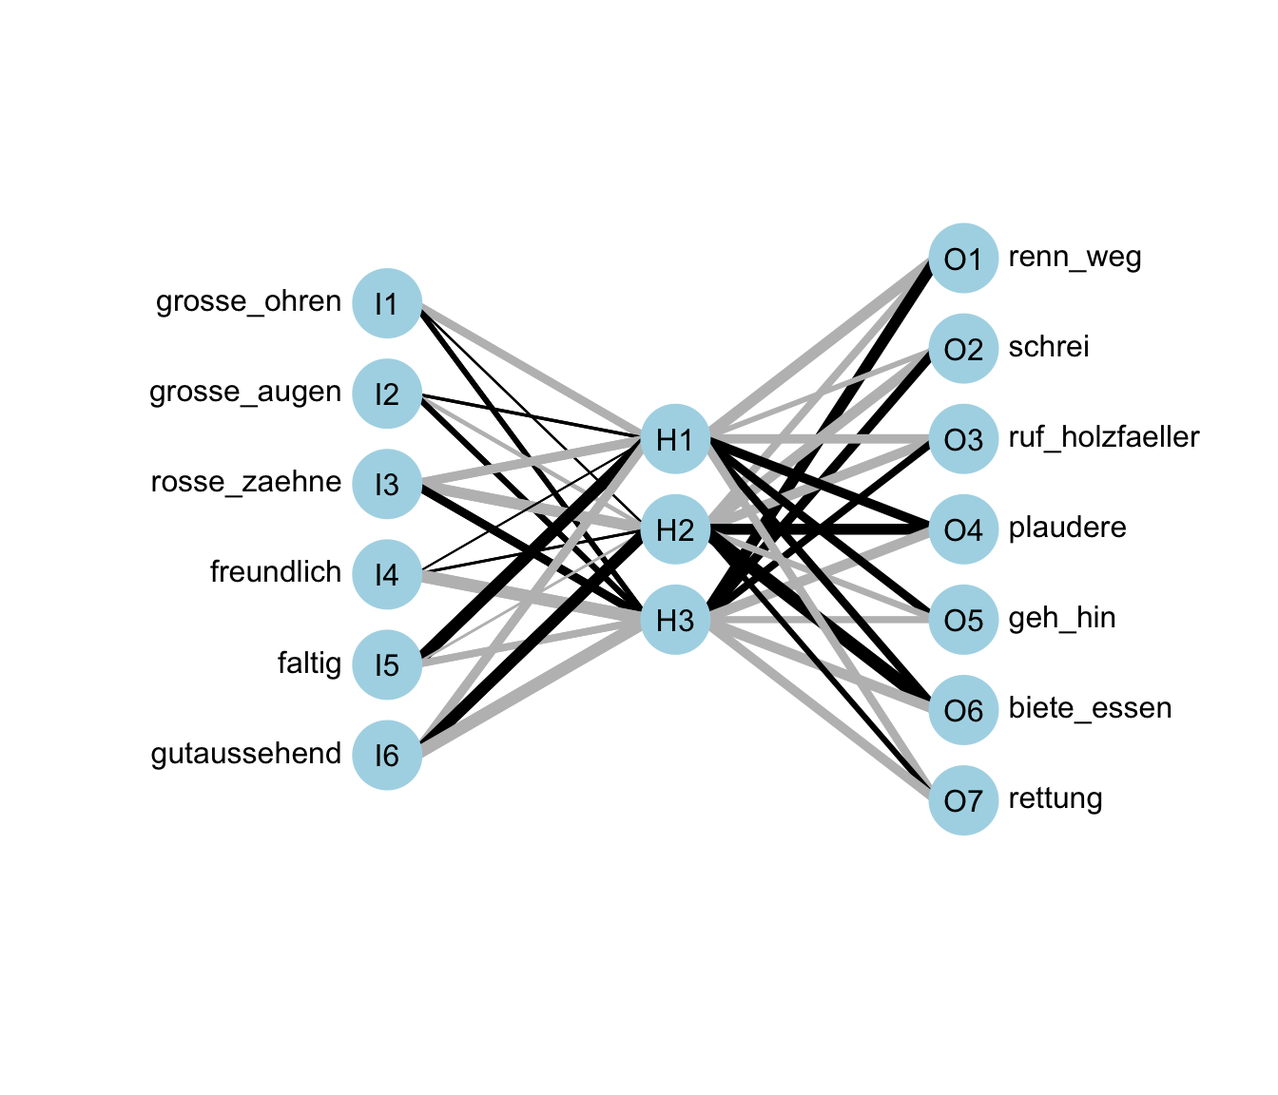
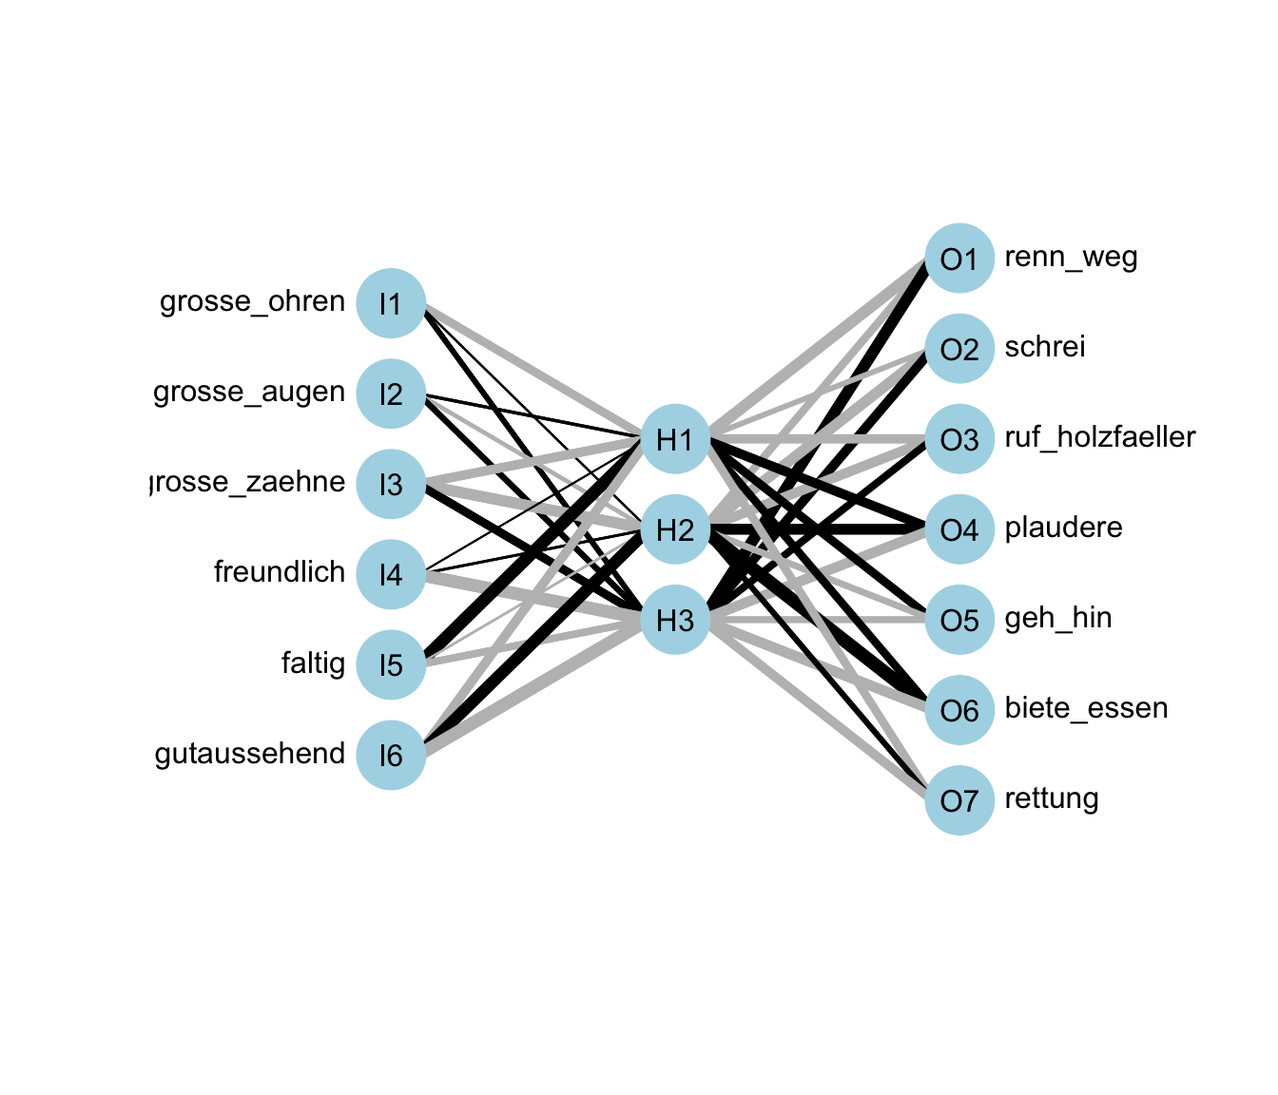
added text

Changed region(s): [[0.0938, 0.25, 0.4688, 0.7188], [0.5625, 0.2188, 0.9375, 0.75], [0.6875, 0.4688, 0.875, 0.5]]

diff --git a/docs/classification-neural-networks.html b/docs/classification-neural-networks.html
@@ -564,12 +564,13 @@ div.csl-indent {
   <ul>
 <li><a href="#genutzte-r-pakete" id="toc-genutzte-r-pakete" class="nav-link active" data-scroll-target="#genutzte-r-pakete"> <span class="header-section-number">56.1</span> Genutzte R Pakete</a></li>
   <li><a href="#neuronale-netzwerke-theoretisch" id="toc-neuronale-netzwerke-theoretisch" class="nav-link" data-scroll-target="#neuronale-netzwerke-theoretisch"> <span class="header-section-number">56.2</span> Neuronale Netzwerke theoretisch</a></li>
-  <li><a href="#rotk%C3%A4ppchen-als-neurales-netz" id="toc-rotkäppchen-als-neurales-netz" class="nav-link" data-scroll-target="#rotk%C3%A4ppchen-als-neurales-netz"> <span class="header-section-number">56.3</span> Rotkäppchen als neurales Netz</a></li>
-  <li><a href="#daten" id="toc-daten" class="nav-link" data-scroll-target="#daten"> <span class="header-section-number">56.4</span> Daten</a></li>
-  <li><a href="#neuronale-netze-mit-neuralnet" id="toc-neuronale-netze-mit-neuralnet" class="nav-link" data-scroll-target="#neuronale-netze-mit-neuralnet"> <span class="header-section-number">56.5</span> Neuronale Netze mit <code>neuralnet</code></a></li>
-  <li><a href="#neuronale-netze-mit-nnet" id="toc-neuronale-netze-mit-nnet" class="nav-link" data-scroll-target="#neuronale-netze-mit-nnet"> <span class="header-section-number">56.6</span> Neuronale Netze mit <code>nnet</code></a></li>
-  <li><a href="#neuronale-netze-mit-keras-tensorflow" id="toc-neuronale-netze-mit-keras-tensorflow" class="nav-link" data-scroll-target="#neuronale-netze-mit-keras-tensorflow"> <span class="header-section-number">56.7</span> Neuronale Netze mit Keras / Tensorflow</a></li>
-  <li><a href="#tuning" id="toc-tuning" class="nav-link" data-scroll-target="#tuning"> <span class="header-section-number">56.8</span> Tuning</a></li>
+  <li><a href="#neuronales-netz-anschaulicher" id="toc-neuronales-netz-anschaulicher" class="nav-link" data-scroll-target="#neuronales-netz-anschaulicher"> <span class="header-section-number">56.3</span> Neuronales Netz anschaulicher</a></li>
+  <li><a href="#neuronales-netz-mathematischer" id="toc-neuronales-netz-mathematischer" class="nav-link" data-scroll-target="#neuronales-netz-mathematischer"> <span class="header-section-number">56.4</span> Neuronales Netz mathematischer</a></li>
+  <li><a href="#daten" id="toc-daten" class="nav-link" data-scroll-target="#daten"> <span class="header-section-number">56.5</span> Daten</a></li>
+  <li><a href="#neuronale-netze-mit-neuralnet" id="toc-neuronale-netze-mit-neuralnet" class="nav-link" data-scroll-target="#neuronale-netze-mit-neuralnet"> <span class="header-section-number">56.6</span> Neuronale Netze mit <code>neuralnet</code></a></li>
+  <li><a href="#neuronale-netze-mit-nnet" id="toc-neuronale-netze-mit-nnet" class="nav-link" data-scroll-target="#neuronale-netze-mit-nnet"> <span class="header-section-number">56.7</span> Neuronale Netze mit <code>nnet</code></a></li>
+  <li><a href="#neuronale-netze-mit-keras-tensorflow" id="toc-neuronale-netze-mit-keras-tensorflow" class="nav-link" data-scroll-target="#neuronale-netze-mit-keras-tensorflow"> <span class="header-section-number">56.8</span> Neuronale Netze mit Keras / Tensorflow</a></li>
+  <li><a href="#tuning" id="toc-tuning" class="nav-link" data-scroll-target="#tuning"> <span class="header-section-number">56.9</span> Tuning</a></li>
   <li><a href="#referenzen" id="toc-referenzen" class="nav-link" data-scroll-target="#referenzen">Referenzen</a></li>
   </ul></nav>
     </div>
@@ -590,7 +591,7 @@ div.csl-indent {
 </header><div class="cell">
 
 </div>
-<p><em>Version vom December 12, 2022 um 08:32:41</em></p>
+<p><em>Version vom December 12, 2022 um 08:52:40</em></p>
 <div class="quarto-figure quarto-figure-center">
 <figure class="figure"><p><img src="images/caution.png" class="img-fluid figure-img" style="width:50.0%"></p>
 </figure>
@@ -692,11 +693,12 @@ div.csl-indent {
 <p><a href="https://stackoverflow.com/questions/2480650/what-is-the-role-of-the-bias-in-neural-networks">What is the role of the bias in neural networks?</a></p>
 </div></div><p>Wenn ein neuronales Netz auf dem Trainingssatz trainiert wird, wird es mit einer Reihe von Gewichten initialisiert. Diese Gewichte werden dann während der Trainingsperiode optimiert und die optimalen Gewichte werden erzeugt. Das ist ein wichtiger Punkt. Wir erzeugen zufällig die Gewichte am Anfang und lassen uns dann die Gewichte mehr oder minder zufällig weiteroptimieren. Sonst würden ja bei jedem Knoten die gleichen Zahlen rauskommen. Wir optimieren aber nicht nur einmal sondern meistens mehrfach. Das heißt wir lassen das neuronale Netzwerk mehrfach wachsen und optimieren bei jedem Wachstum die Gewicte so, dass der Fehler geringer wird.</p>
 <p>Die Epoche (eng. <em>epoch</em>) ist einer der Eingabeparameter des Algorithmus. Stelle dir die Epoche als eine Schleife vor. Die Schleife bestimmt, wie oft ein Lernalgorithmus die Gewichte aktualisiert. Wenn der Wert der Epoche 1 ist, bedeutet dies, dass das neuronale Netz einmal läuft um die Gewichte zu aktualisieren. Wenn die Epoche einen Wert von 5 hat, wird das neuronale Netzwerk fünfmal aktualisiert. Hier ist der Unterschied zu den Entscheidungsbäumen auffällig. Entscheidungsbäume werden in einem Random Forest gemittelt. Die Epochen eines neuronalen Netzwerkes hängen aber miteinander zusammen.</p>
+<div class="page-columns page-full"><p></p><div class="no-row-height column-margin column-container"><span class="aside">Ein neuronales Netz ist eine korrigierende Rückkopplungsschleife, die Gewichte belohnt, die seine korrekten Vermutungen unterstützen, und Gewichte bestraft, die es zu Fehlern verleiten.</span></div></div>
 <p>Damit wir wissen, ob unser Netzwerk über die Epochen besser wird, brauchen wir eine Verlustfunktion (eng. <em>loss function</em>). Die Verlustfunktion wird auch als Kostenfunktion (eng. <em>cost function</em>) bezeichnet. Sie errechnet den Fehler. Um genau zu sein, ist die Kostenfunktion der Durchschnitt der Verlustfunktionen. Dies ist die Funktion, die der Optimierungsalgorithmus zu minimieren versucht. Es gibt eine große Anzahl von Verlustfunktionen, wie den mittleren quadratischen Fehler oder die binäre Kreuzentropie.</p>
 <p>Die Verlustfunktion sagt dem neuronalen Netz im Wesentlichen, welche Maßnahmen es ergreifen muss, um die Accuracy zu verbessern. Diese Information wird dann verwendet, um genaueren Gewichte zu erzeugen. Danach kann dann das neuronale Netz kann die Daten erneut weiterverarbeiten.</p>
 <p>Am Rande möchte ich noch die Begriffe Forward Propagation und Back Propagation erwähnen. Beide Begriffe beschreiben, wie das Lernen innerhalb eines neuronalen Netzwerk abläuft. Klassisch ist die Forward Propagation. Dabei reicht ein Knoten die Informationen an den nächsten Knoten weiter. Das Lernen erfolgt <em>vorwärts</em>. Die andere Möglichkeit ist, das Netzwerk wachsen zu lassen und dann <em>rückwärts</em> die Gewichte der Knoten zu verbessern. Wir haben dann eine Back Propagation vorliegen.</p>
-</section><section id="rotkäppchen-als-neurales-netz" class="level2 page-columns page-full" data-number="56.3"><h2 data-number="56.3" class="anchored" data-anchor-id="rotkäppchen-als-neurales-netz">
-<span class="header-section-number">56.3</span> Rotkäppchen als neurales Netz</h2>
+</section><section id="neuronales-netz-anschaulicher" class="level2" data-number="56.3"><h2 data-number="56.3" class="anchored" data-anchor-id="neuronales-netz-anschaulicher">
+<span class="header-section-number">56.3</span> Neuronales Netz anschaulicher</h2>
 <p>In unserem folgenden Beispiel ist Rotkäppchen das neuronale Netz. Rotkäppchen hat folgende Informationen zu drei möglichen Outcomes vorliegen. Rotkäppchen weiß also, dass es im Wald oder im Haus drei Personen treffen kann. Entweder trifft sie die Großmutter, den großen, bösen Wolf oder den Holzfäller. Gott sei Dank kennt Rotkäppchen die Eigenschaften der drei Charaktere und kann daran sich folgende Matrix aufbauen. Wir lesen die Tabelle wie folgt, wir haben die Spalte <code>grosse_ohren</code> und wir haben drei Werte mit der Spalte assoziiert. Wir wissen aber nicht welche Zeile welcher Charakter ist. Wir wollen die Zuordnung einmal mit dem neuronalen Netzwerk durchführen.</p>
 <div class="cell">
 <div class="sourceCode" id="cb2"><pre class="downlit sourceCode r code-with-copy"><code class="sourceCode R"><span><span class="va">little_red_tbl</span> <span class="op">&lt;-</span> <span class="fu">tibble</span><span class="op">(</span>grosse_ohren <span class="op">=</span> <span class="fu"><a href="https://rdrr.io/r/base/c.html">c</a></span><span class="op">(</span><span class="fl">1</span>, <span class="fl">0</span>, <span class="fl">1</span><span class="op">)</span>, </span>
@@ -823,8 +825,9 @@ div.csl-indent {
 <span>                           exclude <span class="op">=</span> <span class="fu"><a href="https://rdrr.io/r/base/c.html">c</a></span><span class="op">(</span><span class="fl">1</span>, <span class="fl">8</span>, <span class="fl">15</span>, <span class="fl">22</span>, <span class="fl">26</span>, <span class="fl">30</span>, <span class="fl">34</span>, <span class="fl">38</span>, <span class="fl">42</span>, <span class="fl">46</span><span class="op">)</span>, </span>
 <span>                           lifesign <span class="op">=</span> <span class="st">"none"</span>, linear.output <span class="op">=</span> <span class="cn">FALSE</span><span class="op">)</span></span></code><button title="In die Zwischenablage kopieren" class="code-copy-button"><i class="bi"></i></button></pre></div>
 </div>
+<p>In <a href="#fig-class-nn-01">Abbildung&nbsp;<span>56.3</span></a> sehen wir das neuronale Netzwerk einmal abgebildet. Da wir uns so ein simples Beispiel ausgedacht haben, können wir das Beispiel hier auch einmal visualisieren. Wir sehen hier nochmal auf der linken Seite das Input Layer und auf der rechten Seite das Output Layer. Die schwarzen, dicken Linien stellen die bedeutenden Gewichte dar. Wir sehen also, dass <code>grosse_ohren</code>, <code>grosse_augen</code> und <code>grosse_zaehne</code> mit dem Hidden Layer H3 verbunden sind. Von dem Hidden Layer H3 gehen dann die Linien zu <code>renn_weg</code>, <code>schrei</code> und <code>ruf_holzfaeller</code>. Wir sehen daran, dass das neuronale Netzwerk in H3 den großen, bösen Wolf erkannt hat. Da wir jetzt sehen, dass H1 hauptsächlich <code>faltig</code> ist, können wir hier auf die Repräsentation der Großmutter schließen. Ebenso ist H2 <code>gutaussehend</code>, so dass wir hierauf die Repräsenrtation des Holzfällers schließen können. Die Zuordnungen des Output Layers passen dementsprechend dann auch.</p>
 <div class="cell" data-layout-align="center">
-<div class="sourceCode" id="cb4"><pre class="downlit sourceCode r code-with-copy"><code class="sourceCode R"><span><span class="fu">plotnet</span><span class="op">(</span><span class="va">neuralnetwork</span>, bias <span class="op">=</span> <span class="cn">FALSE</span>, pad_x <span class="op">=</span> <span class="fl">0.74</span><span class="op">)</span></span></code><button title="In die Zwischenablage kopieren" class="code-copy-button"><i class="bi"></i></button></pre></div>
+<div class="sourceCode" id="cb4"><pre class="downlit sourceCode r code-with-copy"><code class="sourceCode R"><span><span class="fu">plotnet</span><span class="op">(</span><span class="va">neuralnetwork</span>, bias <span class="op">=</span> <span class="cn">FALSE</span>, pad_x <span class="op">=</span> <span class="fl">0.73</span><span class="op">)</span></span></code><button title="In die Zwischenablage kopieren" class="code-copy-button"><i class="bi"></i></button></pre></div>
 <div class="cell-output-display">
 <div id="fig-class-nn-01" class="quarto-figure quarto-figure-center anchored">
 <figure class="figure"><p><img src="classification-neural-networks_files/figure-html/fig-class-nn-01-1.png" class="img-fluid figure-img" width="672"></p>
@@ -833,7 +836,37 @@ div.csl-indent {
 </div>
 </div>
 </div>
-<p>Das folgende etwas mathematische Beispiel ist von <span class="citation" data-cites="kubat2017introduction">Kubat (<a href="#ref-kubat2017introduction" role="doc-biblioref">2017</a>)</span>, pp.&nbsp;65-73, entnommen. Ich habe das Beispiel dann für R adaptiert, so dass wir hier auch R Code zum ausprobieren haben.</p>
+</section><section id="neuronales-netz-mathematischer" class="level2 page-columns page-full" data-number="56.4"><h2 data-number="56.4" class="anchored" data-anchor-id="neuronales-netz-mathematischer">
+<span class="header-section-number">56.4</span> Neuronales Netz mathematischer</h2>
+<p>Das folgende etwas mathematische Beispiel ist von <span class="citation" data-cites="kubat2017introduction">Kubat (<a href="#ref-kubat2017introduction" role="doc-biblioref">2017</a>)</span>, pp.&nbsp;65-73, entnommen. Ich habe das Beispiel dann für R adaptiert, so dass wir hier auch R Code zum ausprobieren haben. Bevor wir damit anfangen, hier nochmal auf einfache Weise erklärt, was beim Lernen mit einem neuronalen Netzwerk geschieht.</p>
+<p>Eingaben werden als Inputs in das Netz eingegeben. Die Koeffizienten bzw. Gewichte ordnen diese Eingabe einer Reihe von Vermutungen zu, die das Netz am Ende anstellt. Hierbei erfolgt die Zuornung mehr oder minder zufällig. Wir beginnen ja auch mit einem Satz an zufällig ausgewählten Gewichten, die wir dann innerhalb des neuronalen Netzwerks optimieren wollen.</p>
+<p><span class="math display">\[
+Eingabe * Gewichtung = Vermutung
+\]</span></p>
+
+<div class="no-row-height column-margin column-container"><div class="">
+<p><span class="math display">\[
+input * weight = guess
+\]</span></p>
+</div></div><p>Die gewichtete Eingabe führt zu einer Vermutung darüber, was die Eingabe ist. Das neuronale Netz vergleicht dann seine Vermutung mit einer Wahrheit über die Daten und berechnet daraus einen Fehler. Wir wissen, dass wir zehn kranke und acht gesunde Ferkel in dem Datensatz haben, wie viele kann das neuronale Netzwerk anhand der Gewichte und dem Input richtig zuordnen oder eben falsch zuordnen?</p>
+<p><span class="math display">\[
+Wahrheit - Vermutung = Fehler
+\]</span></p>
+
+<div class="no-row-height column-margin column-container"><div class="">
+<p><span class="math display">\[
+truth - guess = error
+\]</span></p>
+</div></div><p>Die Differenz zwischen der Schätzung des neuronalen Netzes und der Wahrheit ist der Fehler. Das Netzwerk misst diesen Fehler und minimiert den Fehler über das Modell, indem es die Gewichte in dem Maße anpasst, wie sie zum Fehler beigetragen haben.</p>
+<p><span class="math display">\[
+Fehler * Beitrag\; des\; Gewichts\; zum\; Fehler = Anpassung
+\]</span></p>
+
+<div class="no-row-height column-margin column-container"><div class="">
+<p><span class="math display">\[
+error * weight's\; contribution\; to\; error = adjustment
+\]</span></p>
+</div></div><p>Die drei obigen Formeln beschreiben die drei Hauptfunktionen neuronaler Netze: Bewertung der Eingaben, Berechnung des Verlusts und Aktualisierung des Modells, um den dreistufigen Prozess von vorne zu beginnen. Ein neuronales Netz ist eine korrigierende Rückkopplungsschleife, die Gewichte belohnt, die seine korrekten Vermutungen unterstützen, und Gewichte bestraft, die es zu Fehlern verleiten.</p>
 
 <div class="no-row-height column-margin column-container"><div class="">
 <p>Das Buch <a href="https://link.springer.com/book/10.1007/978-3-319-63913-0">An Introduction to Machine Learning</a> kannst du dir an der HS Osnabrück als PDF über die Hochschule runterladen.</p>
@@ -926,8 +959,8 @@ attr(,"assign")
 <pre><code>[1] 0 0 1 1</code></pre>
 </div>
 </div>
-</section><section id="daten" class="level2" data-number="56.4"><h2 data-number="56.4" class="anchored" data-anchor-id="daten">
-<span class="header-section-number">56.4</span> Daten</h2>
+</section><section id="daten" class="level2" data-number="56.5"><h2 data-number="56.5" class="anchored" data-anchor-id="daten">
+<span class="header-section-number">56.5</span> Daten</h2>
 <p>In diesem Kapitel wolle wir uns aber mal auf einen echten Datensatz anschauen. Wir nutzen daher einmal den Gummibärchendatensatz. Als unser Label und daher als unser Outcome nehmen wir das Geschlecht <code>gender</code>. Dabei wollen wir dann die weiblichen Studierenden vorhersagen. Im Weiteren nehmen wir nur die Spalte Geschlecht sowie als Prädiktoren die Spalten <code>most_liked</code>, <code>age</code>, <code>semester</code>, und <code>height</code>.</p>
 <div class="cell">
 <div class="sourceCode" id="cb18"><pre class="downlit sourceCode r code-with-copy"><code class="sourceCode R"><span><span class="va">gummi_tbl</span> <span class="op">&lt;-</span> <span class="fu">read_excel</span><span class="op">(</span><span class="st">"data/gummibears.xlsx"</span><span class="op">)</span> <span class="op">%&gt;%</span> </span>
@@ -1077,8 +1110,8 @@ attr(,"assign")
 </div>
 </div>
 <p>Alles in allem haben wir ein sehr kleines Modell. Wir haben ja nur ein Outcome und vier Prädiktoren. Trotzdem sollte dieser Datensatz reichen um zu erklären wie Keras oder Tensorflow funktionieren. Am Ende muss man sich aber auch ehrlich machen und sagen, dass ein Datensatz mit unter tausend Beobachtungen eigentlich keinen großen Sinn für ein neuronales Netz macht. Deshalb ist das hier eher eine Demonstration des Algorithmus.</p>
-</section><section id="neuronale-netze-mit-neuralnet" class="level2 page-columns page-full" data-number="56.5"><h2 data-number="56.5" class="anchored" data-anchor-id="neuronale-netze-mit-neuralnet">
-<span class="header-section-number">56.5</span> Neuronale Netze mit <code>neuralnet</code>
+</section><section id="neuronale-netze-mit-neuralnet" class="level2 page-columns page-full" data-number="56.6"><h2 data-number="56.6" class="anchored" data-anchor-id="neuronale-netze-mit-neuralnet">
+<span class="header-section-number">56.6</span> Neuronale Netze mit <code>neuralnet</code>
 </h2>
 <p>Neuronale Netze mit den R Paketen <code>neuralnet</code> und dem R Paket <code>nnet</code> sind mehr oder minder veraltet (eng. <em>outdated</em>). Wir können das Paket <code>neuralnet</code> nicht über die <code>parsnip</code> Umgebung nutzen. Deshalb hier einmal zu Fuß mit all den Komplikationen, die das so mit sich bringt. Auf der anderen Seite liefert das Paket <code>neuralnet</code> auch gute Ergebnisse mit wenig rechenlaufzeit. Da musst du dann einmal abwägen, was du in deiner Arbei so brauchst.</p>
 <p>Das die Funktion <code>neuralnet()</code> nicht mit den Workflow kann, müssen wir uns erstmal wieder den Traingsdatendatz und den Testdatensatz aus unserem Rezept extrahieren. Den Traingsdatensatz können wir uns über die Funktion <code>juice()</code> einmal aus dem Rezept ziehen.</p>
@@ -1099,10 +1132,10 @@ attr(,"assign")
 <div class="sourceCode" id="cb25"><pre class="downlit sourceCode r code-with-copy"><code class="sourceCode R"><span><span class="va">neuralnet_fit</span> <span class="op">&lt;-</span> <span class="fu">neuralnet</span><span class="op">(</span><span class="va">gender</span> <span class="op">~</span><span class="va">.</span>, data <span class="op">=</span> <span class="va">gummi_train_tbl</span>, rep <span class="op">=</span> <span class="fl">5</span>, threshold <span class="op">=</span> <span class="fl">0.2</span>,</span>
 <span>                           hidden <span class="op">=</span> <span class="fu"><a href="https://rdrr.io/r/base/c.html">c</a></span><span class="op">(</span><span class="fl">5</span>, <span class="fl">5</span><span class="op">)</span>, lifesign <span class="op">=</span> <span class="st">"minimal"</span><span class="op">)</span></span></code><button title="In die Zwischenablage kopieren" class="code-copy-button"><i class="bi"></i></button></pre></div>
 <div class="cell-output cell-output-stderr">
-<pre><code>hidden: 5, 5    thresh: 0.2    rep: 1/5    steps:    1530   error: 32.27755 time: 0.26 secs
-hidden: 5, 5    thresh: 0.2    rep: 2/5    steps:    1818   error: 32.64531 time: 0.27 secs
-hidden: 5, 5    thresh: 0.2    rep: 3/5    steps:    1725   error: 33.55743 time: 0.36 secs
-hidden: 5, 5    thresh: 0.2    rep: 4/5    steps:    1213   error: 36.03243 time: 0.18 secs
+<pre><code>hidden: 5, 5    thresh: 0.2    rep: 1/5    steps:    1530   error: 32.27755 time: 0.27 secs
+hidden: 5, 5    thresh: 0.2    rep: 2/5    steps:    1818   error: 32.64531 time: 0.3 secs
+hidden: 5, 5    thresh: 0.2    rep: 3/5    steps:    1725   error: 33.55743 time: 0.38 secs
+hidden: 5, 5    thresh: 0.2    rep: 4/5    steps:    1213   error: 36.03243 time: 0.17 secs
 hidden: 5, 5    thresh: 0.2    rep: 5/5    steps:     598   error: 35.27807 time: 0.08 secs</code></pre>
 </div>
 </div>
@@ -1180,8 +1213,8 @@ hidden: 5, 5    thresh: 0.2    rep: 5/5    steps:     598   error: 35.27807 time
 </div>
 </div>
 <p>Hier ist also wirklich Vorsicht geboten, wenn wir uns die Ergebnisse anschauen. Die Ergebnisse sind zwar nicht so schlecht, aber wir vertrauen da nicht dem Algorithmus, wenn wir ungültige Wahrscheinlichkeiten erhalten.</p>
-</section><section id="neuronale-netze-mit-nnet" class="level2" data-number="56.6"><h2 data-number="56.6" class="anchored" data-anchor-id="neuronale-netze-mit-nnet">
-<span class="header-section-number">56.6</span> Neuronale Netze mit <code>nnet</code>
+</section><section id="neuronale-netze-mit-nnet" class="level2" data-number="56.7"><h2 data-number="56.7" class="anchored" data-anchor-id="neuronale-netze-mit-nnet">
+<span class="header-section-number">56.7</span> Neuronale Netze mit <code>nnet</code>
 </h2>
 <p>Wir können aber das R Paket <code>nnet</code> mit unserer bekannten Rezeptumgebung nutzen und uns damit das Leben einfacher machen. Das macht auch in diesem Fall sehr viel mehr Sinn, da wir ja nur komische Wahrscheinlichkeiten der Klassenzugehörigkeit aus der Funktion <code>neuralnet()</code> wiederbekommen. Also das ganze einmal ohne wildes Installieren von Tensorflow / Keras. Ein simples neurales Netzwerk in R mit der Engine aus <code>nnet</code>.</p>
 <p>In unserem Beispiel lassen wir einhundert Replikationen laufen (<code>epoch = 100</code>) und wählen auch hier mal fünf Hidden Layers (<code>hidden_units = 5</code>). Dann wollen wir natürlich eine Klassifikation rechnen.</p>
@@ -1260,8 +1293,8 @@ Prediction  m  w
 </div>
 </div>
 </div>
-</section><section id="neuronale-netze-mit-keras-tensorflow" class="level2 page-columns page-full" data-number="56.7"><h2 data-number="56.7" class="anchored" data-anchor-id="neuronale-netze-mit-keras-tensorflow">
-<span class="header-section-number">56.7</span> Neuronale Netze mit Keras / Tensorflow</h2>
+</section><section id="neuronale-netze-mit-keras-tensorflow" class="level2 page-columns page-full" data-number="56.8"><h2 data-number="56.8" class="anchored" data-anchor-id="neuronale-netze-mit-keras-tensorflow">
+<span class="header-section-number">56.8</span> Neuronale Netze mit Keras / Tensorflow</h2>
 <p>Jetzt kommen wir zum dicksten Brett. Was wir hier machen ist eigentlich nur ein schwacher Abglanz was Tensorflow eigentlich kann. Über den Algorithmus werden ganze Bücher geschrieben und die Anwendung auf einem Laptop oder Standrechner ist eigentlich dem Algorithmus nicht würdig. Wir werden hier auch nicht alles aus dem Algorithmus raus holen. Das geht auch gar nicht. Wenn du dich tiefer mit der Materie beschäftigen willst, dann ist dies hier ein guter Startpunkt. Wenn du Probleme hast Tensorflow zum Laufen zu kriegen, dann kannst du auch für die einfache Anwendung <code>nnet</code> nutzen. Mit ein wenig Tuning sollten da auch gute Ergebnisse bei herauskommen.</p>
 
 <div class="no-row-height column-margin column-container"><div class="">
@@ -1351,8 +1384,8 @@ Kann ich auch eine Kreuzvalidierung für Keras / Tensorflow durchführen?
 <p>Ja, kannst du. Wenn du <em>nur</em> eine Kreuzvalidierung durchführen willst, findest du alles im <a href="classification-knn.html"><span>Kapitel&nbsp;53</span></a> für den <span class="math inline">\(k\)</span>-NN Algorithmus. Du musst dort nur den Workflow ändern und schon kannst du alles auch auf Keras / Tensorflow Algorithmus anwenden.</p>
 </div>
 </div>
-</section><section id="tuning" class="level2" data-number="56.8"><h2 data-number="56.8" class="anchored" data-anchor-id="tuning">
-<span class="header-section-number">56.8</span> Tuning</h2>
+</section><section id="tuning" class="level2" data-number="56.9"><h2 data-number="56.9" class="anchored" data-anchor-id="tuning">
+<span class="header-section-number">56.9</span> Tuning</h2>
 <p>Was heißt Tuning? Wie bei einem Auto können wir an verschiedenen Stellschrauben bei einem mathematischen Algorithmus schrauben. Welche Schrauben und Teile das sind, hängt dann wieder vom Algorithmus ab. Im Falle des xgboost Algorithmus können wir an folgenden Parametern drehen und jeweils schauen, was dann mit unserer Vorhersage passiert. Insgesamt hat der <a href="https://parsnip.tidymodels.org/reference/details_mlp_keras.html">keras Algorithmus fünf Tuningparameter</a>, wir wählen jetzt für uns hier drei aus. Ich nehme hier auch nur drei Parameter, da sich dann drei Parameter noch sehr gut visuell darstellen lassen. In der Anwendung wäre dann natürlich besser alle Parameter zu tunen, aber das dauert dann auch lange.</p>
 <ul>
 <li>
